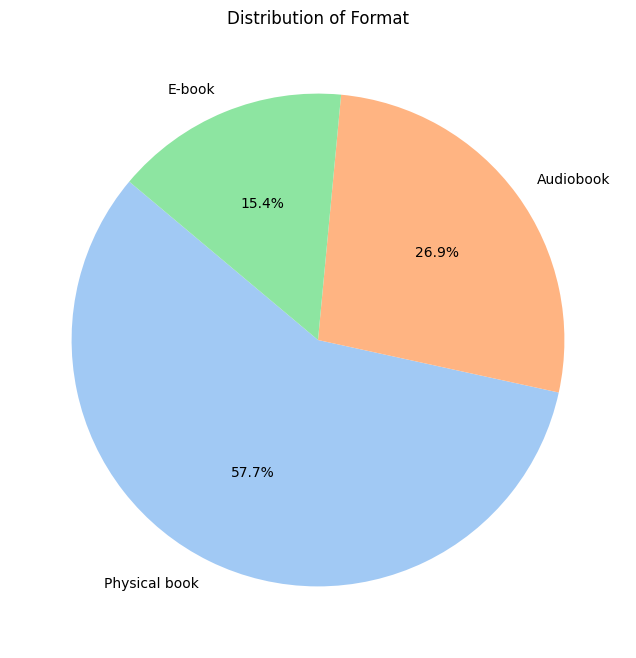
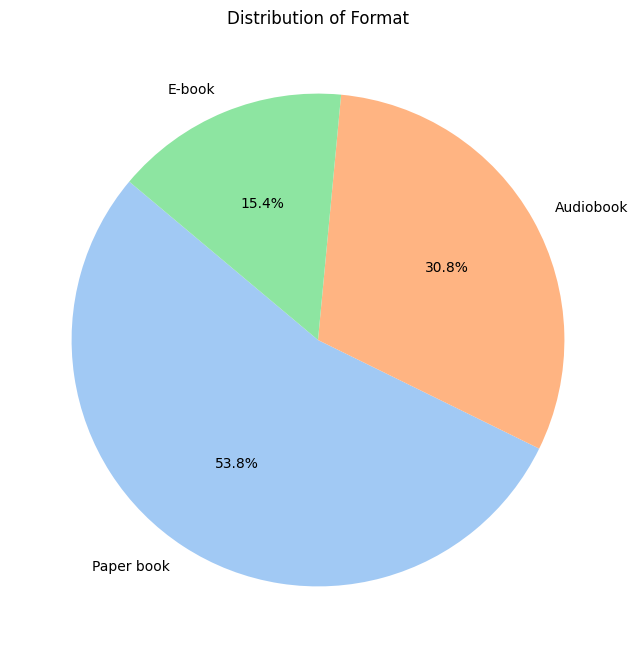
2024 books edit (#41)
* 2024 books edit

* misc

diff --git a/_posts/2024-12-24-2024-books.md b/_posts/2024-12-24-2024-books.md
@@ -1,0 +1,72 @@
+---
+type: posts
+title: "2024 Recap — Books"
+header:
+  image: /files/images/headers/book-shelf.jpg
+  caption: "Photo credit: [**@ninjason (Unsplash)**](https://unsplash.com/@ninjason)"
+date: 2024-12-24 17:00:00 -0800
+last_modified_at: 2025-01-02 18:00:00 +0900
+categories: [book]
+tags: 
+  - 2024 Q4
+  - book 
+published: true
+---
+## Intro
+
+Here are the books I read in 2024. I finished 26 in total. This year, I started reading every morning before work—one of the very few things I’m proud of in 2024.
+
+## Book Stats
+
+15 out of 26 were non-finctions and 11 were fictions. Exactly half (13 out of 26) were science-related. 
+
+To make it fun, I visualized some stats from this year’s reading:
+
+![png](/files/images/others/distribution_format.png)
+
+![png](/files/images/others/distribution_language.png)
+
+![png](/files/images/others/top_10_genre.png)
+
+## My Favorites
+
+Among the 26 books, *Naming Nature*, *On the Move*, *Under A White Sky*, and *희랍어 시간* were my favorites. 
+
+- **Naming Nature**: Offers great insights into how limited our perception and understanding of the world. 
+- **On the Move**: Very inspiring. How can someone live with such endless passion? It left me questioning whether I’m missing something in my own life.
+- **Under A White Sky**: It’s almost impossible to predict the consequences of human intervention in nature. Yet, with the urgency of the climate crisis, such actions are sometimes necessary. What should we do, and how should we do it? This quote encapsulates the book’s essence:
+  > His preferred drug analogy for the technology is chemotherapy. No one in his right mind would undergo chemotherapy were better options available. "We live in a world," he has said, "where deliberately dimming the fucking sun might be less risky than not doing it."
+- **희랍어 시간**: What an honor to read a Nobel Prize-winning work in my native language.
+o
+
+## Book List
+
+| Title                                                                  | Author                             | Genre                                       | Format     | Language |
+| ---------------------------------------------------------------------- | ---------------------------------- | ------------------------------------------- | ---------- | -------- |
+| 사라진 것들 (The Disappeared)                                          | 앤드루 포터 (Andrew J. Porter)     | Short Stories, Fiction                      | Paper book | Korean   |
+| The Moral Animal                                                       | Robert Wright                      | Psychology, Science, Nonfiction, Evolution  | Audiobook  | English  |
+| 차나 한 잔                                                             | 김승옥 (Kim Seungok)               | Short Stories, Fiction                      | Paper book | Korean   |
+| Naming Nature                                                          | Carol Kaesuk Yoon                  | Science, Nonfiction, Nature, Biology        | E-book     | English  |
+| 우리가 세상을 이해하길 멈출 때 (When We Cease to Understand the World) | 벵하민 라바투트 (Benjamín Labatut) | Science, Fiction, History, Short Stories    | E-book     | Korean   |
+| Insomniac City: New York, Oliver, and Me                               | Bill Hayes                         | Nonfiction, Memoir, Biography               | Audiobook  | English  |
+| The Anxious Generation                                                 | Jonathan Haidt                     | Nonfiction, Psychology, Sociology, Science  | Audiobook  | English  |
+| 찌그러져도 동그라미입니다                                              | 김창완 (Kim Chang Wan)             | Essays                                      | E-book     | Korean   |
+| 모든 것은 그 자리에 (Everything in Its Place)                          | 올리버 색스 (Oliver Sacks)         | Nonfiction, Science, Essays, Memoir         | E-book     | Korean   |
+| On the Move                                                            | Oliver Sacks                       | Nonfiction, Science, Essays, Memoir         | Paper book | English  |
+| Awe                                                                    | Dacher Keltner                     | Nonfiction, Psychology, Science             | Audiobook  | English  |
+| From Bacteria to Bach and Back                                         | Daniel C. Dennett                  | Science, Philosophy, Nonfiction, Evolution  | Paper book | English  |
+| Under A White Sky                                                      | Elizabeth Kolbert                  | Nonfiction, Science, Environment, Nature    | Paper book | English  |
+| Ethics in the Real World: 90 Essays on Things That Matter              | Peter Singer                       | Philosophy, Nonfiction, Essays              | Paper book | English  |
+| 아무튼, SF게임                                                         | 김초엽 (Kim Cho-yeop)              | Essays                                      | Paper book | Korean   |
+| Different: Gender Through the Eyes of a Primatologist                  | Frans de Waal                      | Science, Nonfiction, Biology, Psychology    | Audiobook  | English  |
+| What Is Life?: Five Great Ideas in Biology                             | Paul Nurse                         | Science, Nonfiction, Biology, Nature        | Audiobook  | English  |
+| The Hidden Girl and Other Stories                                      | Ken Liu                            | Short Stories, Science Fiction, Fiction     | Paper book | English  |
+| 28                                                                     | 정유정 (Jeong You-Jeong)           | Fiction, Thriller, Mystery                  | Paper book | Korean   |
+| 저주토끼                                                               | 정보라 (Chung Bora)                | Short Stories, Horror, Fiction              | Paper book | Korean   |
+| 희랍어 시간                                                            | 한강 (Han Kang)                    | Fiction                                     | Paper book | Korean   |
+| 영화 보고 오는 길에 글을 썼습니다                                      | 김중혁 (Kim Jung Hyuk)             | Essays, Movie                               | Paper book | Korean   |
+| The Righteous Mind                                                     | Jonathan Haidt                     | Nonfiction, Psychology, Philosophy, Science | Audiobook  | English  |
+| Why I Am Not a Buddhist                                                | Evan Thompson                      | Philosophy, Religion, Nonfiction, Science   | Paper book | English  |
+| 파견자들                                                               | 김초엽 (Kim Cho-yeop)              | Science Fiction, Fiction                    | Paper book | Korean   |
+| The Art Thief                                                          | Michael Finkel                     | Nonfiction, True Crime, Art                 | Audiobook  | English  |
+
